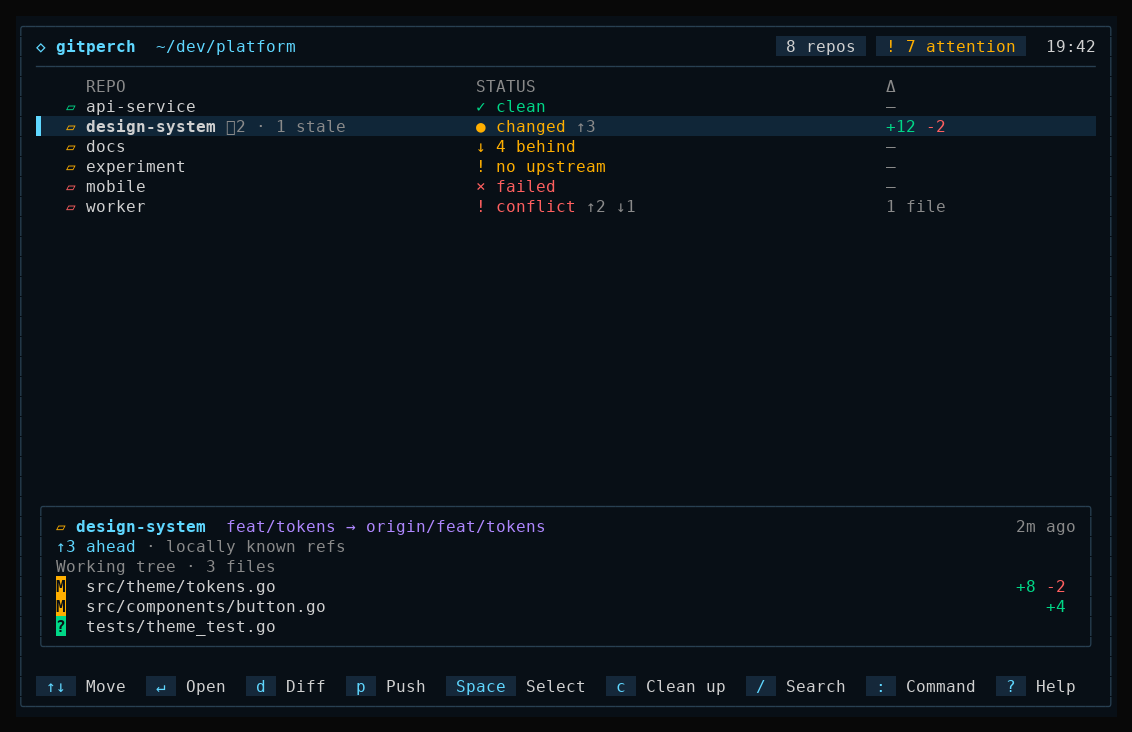
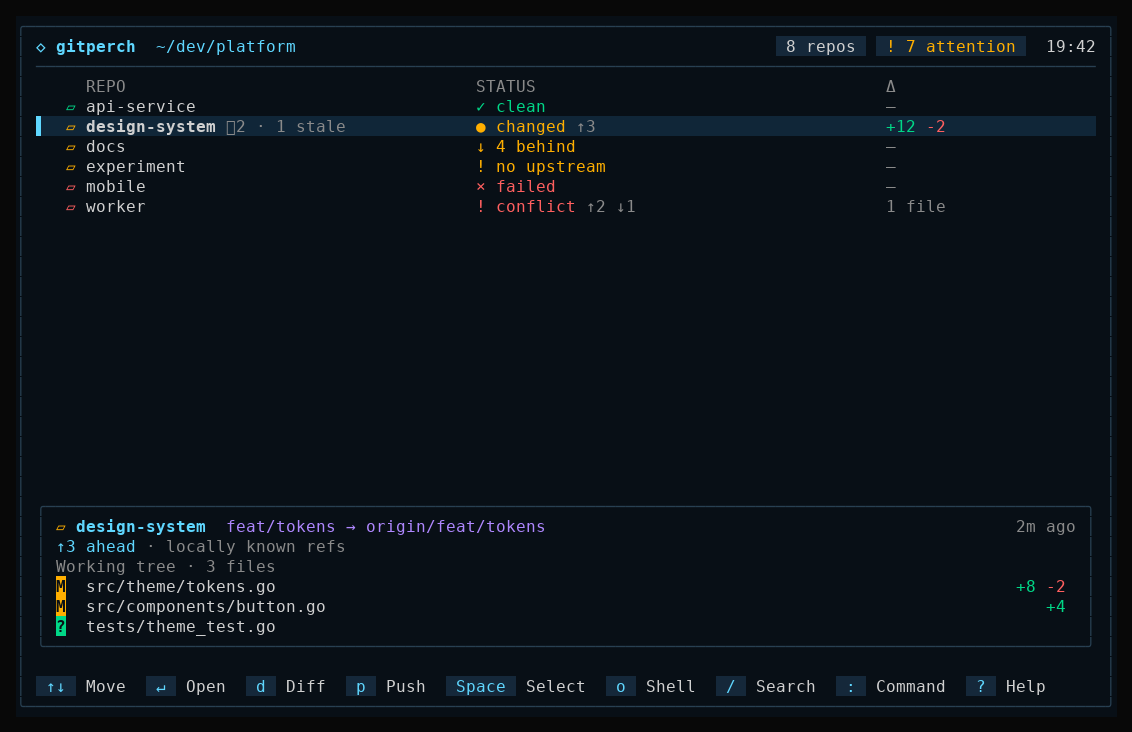
fix(tui): harden cleanup preparation and kept list
Make Clean up the first hint to drop, honour Esc during preparation,
release the cancel function on every non-review path, show failed items
first without a false details pointer, and use the engine's real prune
reason in the capture.

Changed region(s): [[0.5565, 0.9016, 0.9585, 0.9617]]

diff --git a/internal/tui/cleanup_test.go b/internal/tui/cleanup_test.go
@@ -2,6 +2,7 @@ package tui
 
 import (
 	"context"
+	"fmt"
 	"os"
 	"os/exec"
 	"path/filepath"
@@ -224,7 +225,7 @@ func TestCleanupOfferedInPaletteHintsAndHelp(t *testing.T) {
 	m.EnableActions(app.NewActions(newActionFake(false), 1))
 	m.EnableCleanup(true)
 	m.applySnapshot(app.Snapshot{Rows: dashboardRows()})
-	m.Update(tea.WindowSizeMsg{Width: 120, Height: 30})
+	m.Update(tea.WindowSizeMsg{Width: 200, Height: 30}) // Clean up is the first hint to drop
 	found := false
 	for _, c := range m.commands() {
 		found = found || c.id == "cleanup"
@@ -241,5 +242,111 @@ func TestCleanupOfferedInPaletteHintsAndHelp(t *testing.T) {
 	m.EnableCleanup(false)
 	if strings.Contains(strings.Join(m.helpContent(), "\n"), "Clean up") {
 		t.Fatal("help mentions Clean up on old Git")
+	}
+}
+
+func TestCleanupEscWhilePreparingOpensNoReviewAndReleasesSlot(t *testing.T) {
+	repo, merged, _ := tuiCleanupRepo(t)
+	m := cleanupModel(t, repo)
+	cmd := m.key(key("c"))
+	if !m.preparing || cmd == nil {
+		t.Fatalf("preparation did not start: %q", m.message)
+	}
+	m.key(key("esc")) // cancels the context before the plan result arrives
+	drain(m, cmd)
+	if m.cleanup != nil || m.preparing || m.message != "Cleanup preparation cancelled" {
+		t.Fatalf("cancelled preparation: review=%v preparing=%v message=%q", m.cleanup, m.preparing, m.message)
+	}
+	if m.actionCancel != nil {
+		t.Fatal("cancel function not released")
+	}
+	if _, err := os.Stat(merged); err != nil {
+		t.Fatal("cancelled preparation removed a worktree")
+	}
+	drain(m, m.key(key("c")))
+	if m.cleanup == nil {
+		t.Fatalf("active slot not released; cannot plan again: %q", m.message)
+	}
+}
+
+func TestCleanupErrorAndEmptyPlanReleaseCancel(t *testing.T) {
+	for name, msg := range map[string]cleanupMsg{
+		"error": {generation: 1, err: context.DeadlineExceeded},
+		"empty": {generation: 1},
+	} {
+		t.Run(name, func(t *testing.T) {
+			m := New(context.Background(), nil, true)
+			m.EnableActions(app.NewActions(newActionFake(false), 1))
+			m.EnableCleanup(true)
+			ctx, cancel := context.WithCancel(context.Background())
+			m.actionGeneration, m.actionCancel, m.actionCtx, m.preparing = 1, cancel, ctx, true
+			m.cleanupMessage(msg)
+			if m.cleanup != nil || m.actionCancel != nil || ctx.Err() == nil {
+				t.Fatalf("cancel leaked: review=%v cancel=%v ctxErr=%v", m.cleanup, m.actionCancel != nil, ctx.Err())
+			}
+		})
+	}
+}
+
+func TestCleanupUntickedItemIsNotRun(t *testing.T) {
+	repo, merged, _ := tuiCleanupRepo(t)
+	second := filepath.Join(t.TempDir(), "merged2")
+	tuiGit(t, repo, "worktree", "add", "-b", "merged2", second)
+	m := cleanupModel(t, repo)
+	drain(m, m.key(key("c")))
+	if m.cleanup == nil {
+		t.Fatalf("no review: %q", m.message)
+	}
+	eligible := m.eligibleCleanup()
+	if len(eligible) != 2 {
+		t.Fatalf("want two eligible items, got %+v", eligible)
+	}
+	keep, remove := eligible[0].Path, eligible[1].Path
+	m.key(key(" ")) // untick the first eligible item under the cursor
+	drain(m, m.key(key("enter")))
+	if _, err := os.Stat(keep); err != nil {
+		t.Fatalf("unticked worktree %s was touched: %v", keep, err)
+	}
+	if _, err := os.Stat(remove); !os.IsNotExist(err) {
+		t.Fatalf("ticked worktree %s still exists", remove)
+	}
+	if !strings.Contains(m.message, "1 succeeded") {
+		t.Fatalf("summary: %q", m.message)
+	}
+	_ = merged
+}
+
+func TestCleanupKeptListShowsFailedFirstAndNoFalsePointer(t *testing.T) {
+	m := New(context.Background(), nil, true)
+	m.EnableActions(app.NewActions(newActionFake(false), 1))
+	m.EnableCleanup(true)
+	m.Update(tea.WindowSizeMsg{Width: 110, Height: 35})
+	items := []app.CleanupItem{}
+	for i := 0; i < 6; i++ {
+		items = append(items, app.CleanupItem{ID: fmt.Sprint("k", i), Group: "/repos/a", Kind: app.RemoveWorktree, Path: fmt.Sprint("/w/k", i), Reason: "dirty (1 files)"})
+	}
+	items = append(items, app.CleanupItem{ID: "fail", Group: "/repos/a", Kind: app.CleanupGroup, Path: "/repos/a", Reason: "preflight fetch failed: no route", Failed: true})
+	m.cleanup = &app.CleanupPreview{ID: 1, Items: items}
+	m.cleanupTicked = map[string]bool{}
+	view := m.View().Content
+	if !strings.Contains(view, "preflight fetch failed: no route") {
+		t.Fatalf("failed item hidden:\n%s", view)
+	}
+	if !strings.Contains(view, "+3 more kept") || strings.Contains(view, "d details") {
+		t.Fatalf("overflow text wrong:\n%s", view)
+	}
+}
+
+func TestCleanupLateResultAfterCancelDoesNotOpenReview(t *testing.T) {
+	m := New(context.Background(), nil, true)
+	m.EnableActions(app.NewActions(newActionFake(false), 1))
+	m.EnableCleanup(true)
+	ctx, cancel := context.WithCancel(context.Background())
+	m.actionGeneration, m.actionCancel, m.actionCtx, m.preparing = 1, cancel, ctx, true
+	cancel() // Esc arrived after the plan's last context check
+	items := []app.CleanupItem{{ID: "a", Group: "/r", Kind: app.PruneStale, Path: "/r", Eligible: true}}
+	m.cleanupMessage(cleanupMsg{generation: 1, preview: app.CleanupPreview{ID: 1, Items: items}})
+	if m.cleanup != nil || m.message != "Cleanup preparation cancelled" || m.actionCancel != nil {
+		t.Fatalf("review opened after cancel: %v %q", m.cleanup, m.message)
 	}
 }

diff --git a/internal/tui/cleanup.go b/internal/tui/cleanup.go
@@ -2,6 +2,7 @@ package tui
 
 import (
 	"context"
+	"errors"
 	"fmt"
 	"path/filepath"
 	"sort"
@@ -104,16 +105,29 @@ func (m *Model) cleanupMessage(msg cleanupMsg) tea.Cmd {
 		return nil
 	}
 	m.preparing = false
+	// Every path that does not open a review releases the cancel function.
+	release := func() {
+		if m.actionCancel != nil {
+			m.actionCancel()
+			m.actionCancel = nil
+		}
+	}
+	cancelled := m.actionCtx != nil && m.actionCtx.Err() != nil
+	if cancelled && (msg.err == nil || errors.Is(msg.err, context.Canceled)) {
+		m.actions.Discard(msg.preview.ID)
+		m.message = "Cleanup preparation cancelled"
+		release()
+		return m.resumeInterruptedRefresh()
+	}
 	if msg.err != nil {
 		m.message = gitcli.SafeText(msg.err.Error())
-		if m.actionCtx != nil && m.actionCtx.Err() != nil {
-			m.message = "Cleanup preparation cancelled"
-		}
+		release()
 		return m.resumeInterruptedRefresh()
 	}
 	if len(msg.preview.Items) == 0 {
 		m.actions.Discard(msg.preview.ID)
 		m.message = "Nothing to clean up"
+		release()
 		return m.resumeInterruptedRefresh()
 	}
 	m.cleanup = &msg.preview
@@ -259,20 +273,35 @@ func (m *Model) cleanupView() tea.View {
 		}
 		lines = append(lines, m.between(pointer+box+" "+m.cleanupLabel(item), m.style(gitcli.SafeText(item.Reason), muted, false), inner))
 	}
-	kept := 0
+	// Failed checks come first and always show; ordinary kept items fill the
+	// remaining budget of four lines.
+	var kept []app.CleanupItem
+	failed := 0
 	for _, item := range m.cleanup.Items {
-		if item.Eligible {
-			continue
+		if !item.Eligible && item.Failed {
+			kept = append(kept, item)
+			failed++
 		}
-		if kept == 4 {
-			lines = append(lines, m.style("  … more kept · d details after closing", muted, false))
-			break
+	}
+	for _, item := range m.cleanup.Items {
+		if !item.Eligible && !item.Failed {
+			kept = append(kept, item)
 		}
-		if kept == 0 {
+	}
+	shown := max(4, failed)
+	for i, item := range kept {
+		if i == 0 {
 			lines = append(lines, "", m.style("kept", amber, true))
 		}
-		kept++
-		lines = append(lines, m.style("  "+m.cleanupLabel(item)+": "+gitcli.SafeText(item.Reason), amber, false))
+		if i == shown {
+			lines = append(lines, m.style(fmt.Sprintf("  +%d more kept", len(kept)-shown), muted, false))
+			break
+		}
+		color := amber
+		if item.Failed {
+			color = danger
+		}
+		lines = append(lines, m.style("  "+m.cleanupLabel(item)+": "+gitcli.SafeText(item.Reason), color, false))
 	}
 	footer := "Space toggle · ↑↓ move · " + m.symbols().enter + " clean up · Esc cancel"
 	if len(eligible) == 0 {

diff --git a/internal/tui/capture_test.go b/internal/tui/capture_test.go
@@ -58,7 +58,7 @@ func captureCleanup(main string) *app.CleanupPreview {
 		return app.CleanupItem{ID: id, Group: main, Kind: app.RemoveWorktree, Path: "/home/mark/worktrees/" + name, Branch: branch, BaseName: base, Eligible: eligible, Reason: reason}
 	}
 	return &app.CleanupPreview{ID: 1, Items: []app.CleanupItem{
-		{ID: "prune", Group: main, Kind: app.PruneStale, Path: main, Stale: []string{"/home/mark/worktrees/old-spike"}, Eligible: true, Reason: "directory is gone"},
+		{ID: "prune", Group: main, Kind: app.PruneStale, Path: main, Stale: []string{"/home/mark/worktrees/old-spike"}, Eligible: true, Reason: "1 stale worktree record(s)"},
 		remove("fix-tokens", "fix-tokens", "fix/tokens", true, "merged into "+base),
 		remove("add-icons", "add-icons", "feat/icons", true, "merged into "+base),
 		remove("wip-dark", "wip-dark", "wip/dark-mode", false, "dirty (3 files)"),

diff --git a/internal/tui/view.go b/internal/tui/view.go
@@ -673,7 +673,7 @@ func (m *Model) footer() string {
 	}
 	hints = append(hints, hint{"Space", "Select", 4})
 	if m.cleanupSupported && m.actions != nil {
-		hints = append(hints, hint{"c", "Clean up", 4})
+		hints = append(hints, hint{"c", "Clean up", 5})
 	}
 	hints = append(hints, hint{"o", "Shell", 4}, hint{"/", "Search", 3}, hint{"r", "Refresh", 4}, hint{":", "Command", 0}, hint{"?", "Help", 3})
 	return m.hintBar("", hints, w)

diff --git a/docs/usage.md b/docs/usage.md
@@ -186,9 +186,11 @@ files another program writes in the instant between that check and
 after the fresh fetch. There is no squash or rebase-merge detection: a branch
 merged that way shows as not merged and is kept. A repository without a remote
 uses local `main`, else `master`, labelled "local default". When the remote's
-default branch is unknown, nothing in the repository is eligible; run
+default branch is unknown, no worktree in the repository is eligible for
+removal (stale records can still be pruned); run
 `git remote set-head <remote> -a` yourself, because gitperch never sets it. A
-failed fetch also makes the repository ineligible and is shown with its error.
+failed fetch likewise makes no worktree eligible for removal, and the error is
+shown among the kept items; stale records can still be pruned.
 
 ## Fetch
 
